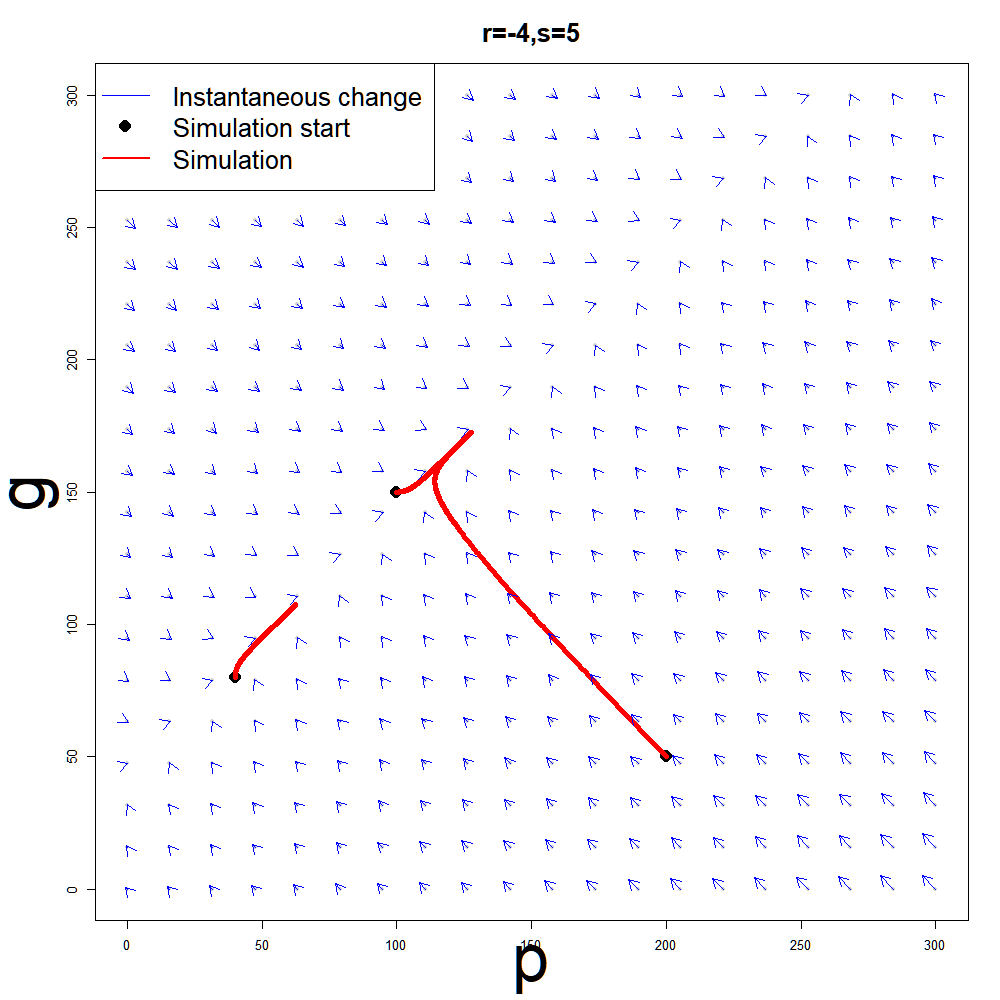
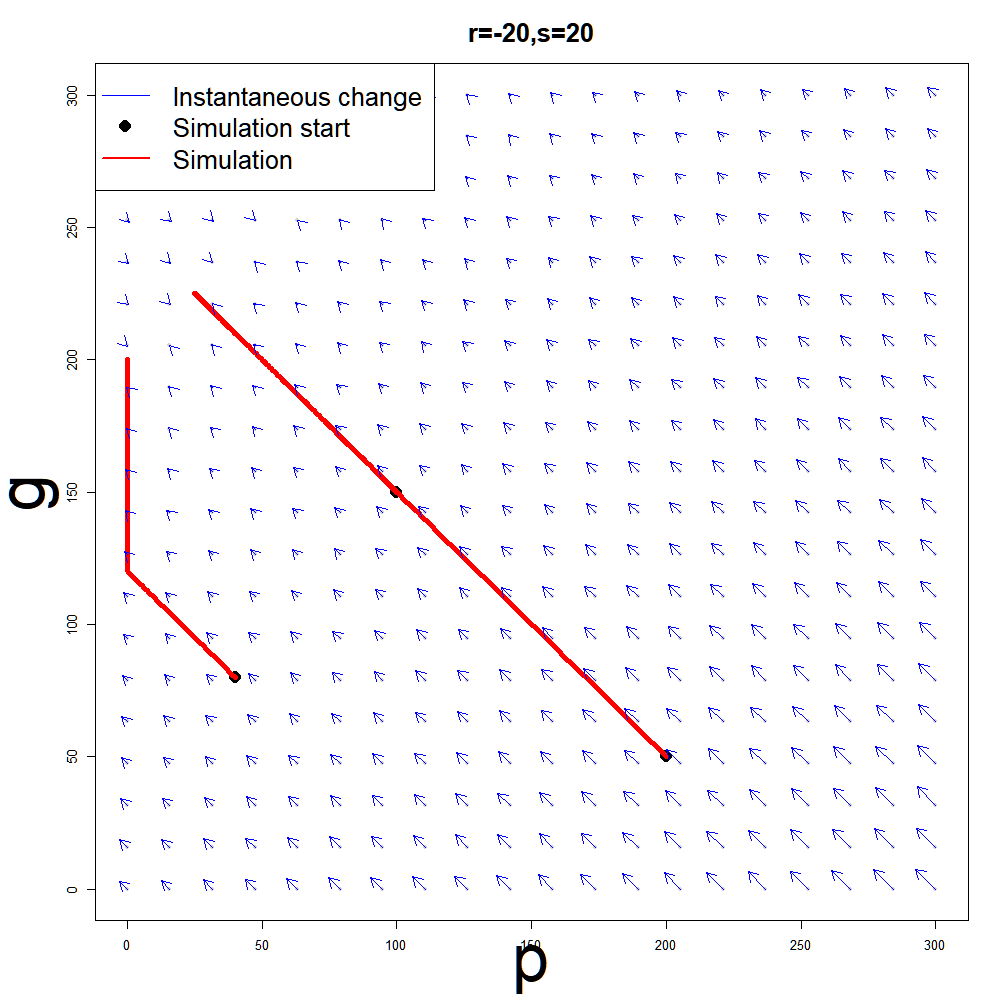
Added vector plots to public sentiment

diff --git a/3MB3 Pres.tex b/3MB3 Pres.tex
@@ -201,57 +201,53 @@
 
 \end{frame}
 
-\begin{frame}{Long Term Behavior (Public Sentiment)}
-    \begin{columns}
-        \column{0.5\textwidth}
-        \begin{center}
-        \textbf{$bd>ac$}
-        \end{center}
-        \column{0.5\textwidth}
-        \begin{center}
-         \textbf{$bd<ac$}
-        \end{center}
-    \end{columns}
-    \begin{columns}
-        \column{0.5\textwidth}
-        \includegraphics[width=1\textwidth]{S1_bd_gt_ac.png}
-        \column{0.5\textwidth}
-        \includegraphics[width=1\textwidth]{S2_bd_lt_ac.png}
-    \end{columns}
+% \begin{frame}{Long Term Behavior (Public Sentiment)}
+% \vspace={1.0cm}
+%     \begin{columns}
+%         \column{0.5\textwidth}
+%         \begin{center}
+%         \textbf{$bd>ac$ or $bd=ac, r<0, s<0$}
+%         \end{center}
+%         \column{0.5\textwidth}
+%         \begin{center}
+%          \textbf{$bd<ac$ or $bd=ac,r \geq,s>0$}
+%         \end{center}
+%     \end{columns}
+%     \begin{columns}
+%         \column{0.5\textwidth}
+%         \includegraphics[width=1\textwidth]{S1_bd_gt_ac.png}
+%         \column{0.5\textwidth}
+%         \includegraphics[width=1\textwidth]{S2_bd_lt_ac.png}
+%     \end{columns}
     
-\vspace{0.3cm}
+% \vspace{0.3cm}
 
-    \begin{columns}
-    \column{0.5\textwidth}
-        \centering
-        Complete mutual disarmament \\
-        %\((p^\infty,g^\infty)=(0,0)\)
-    \column{0.5\textwidth}
-        \centering
-        Perpetual arms race \\
-        %\((p^\infty,g^\infty)=(\infty,\infty)\)
-    \end{columns}
-\end{frame}
+%     \begin{columns}
+%     \column{0.5\textwidth}
+%         \centering
+%         Complete mutual disarmament \\
+%         %\((p^\infty,g^\infty)=(0,0)\)
+%     \column{0.5\textwidth}
+%         \centering
+%         Perpetual arms race \\
+%         %\((p^\infty,g^\infty)=(\infty,\infty)\)
+%     \end{columns}
+% \end{frame}
 
 \begin{frame}{Long Term Behavior (Public Sentiment)}
 
 \vspace{0.1cm}
 
     \begin{columns}
-        \column{0.33\textwidth}
+        \column{0.5\textwidth}
         \centering
-        \textbf{\small $bd=ac, r=0, s=0$}\\
-        \includegraphics[width=0.75\textwidth]{S7_bd_eq_ac.png}\\
-        \tiny Trajectories never reach equilibrium
-        \column{0.33\textwidth}
-        \centering
-        \textbf{\small $bd=ac, r<0, s<0$}\\
-        \includegraphics[width=0.75\textwidth]{S5_bd_eq_ac.png}\\
+        \textbf{\small $bd>ac$ or $bd=ac, r<0, s<0$}\\
+        \includegraphics[width=0.5\textwidth]{S1_bd_gt_ac.png}\\
         \tiny Complete mutual disarmament
-        \column{0.33\textwidth}
+        \column{0.5\textwidth}
         \centering
-        \textbf{\small $bd=ac, r>0, s>0$}\\
-        \includegraphics[width=0.75\textwidth]{S6_bd_eq_ac.png}\\
+        \textbf{\small $bd<ac$ or $bd=ac,r \geq,s>0$}\\
+        \includegraphics[width=0.5\textwidth]{S2_bd_lt_ac.png}\\
         \tiny Perpetual arms race
     \end{columns}
 
@@ -262,12 +258,12 @@
         \centering
         \textbf{\small $bd=ac, r<0, s>0$}\\
         \includegraphics[width=0.5\textwidth]{S4_bd_eq_ac.png}\\
-        \tiny One grows, one shrinks
+        \tiny One nation grows, other nation shrinks
         \column{0.5\textwidth}
         \centering
-        \textbf{\small $bd=ac, r=0, s>0$}\\
-        \includegraphics[width=0.5\textwidth]{S3_bd_eq_ac.png}\\
-        \tiny Both diverge
+        \textbf{\small $bd=ac, r=0, s=0$}\\
+        \includegraphics[width=0.5\textwidth]{S7_bd_eq_ac.png}\\
+        \tiny Nations never reach equilbrium
     \end{columns}
 
 \end{frame}
@@ -357,27 +353,27 @@
 
 \end{frame}
 
-\begin{frame}{Long Term Behavior (Mutual Logistic Fear)}
+% \begin{frame}{Long Term Behavior (Mutual Logistic Fear)}
 
-\begin{columns}[T]
-    \column{0.33\textwidth}
-    \centering
-    \textbf{$bd > ac$}\\
-    \includegraphics[width=\linewidth]{S1_only_origin.png}\\
-    \small Complete mutual disarmament
+% \begin{columns}[T]
+%     \column{0.33\textwidth}
+%     \centering
+%     \textbf{$bd > ac$}\\
+%     \includegraphics[width=\linewidth]{S1_only_origin.png}\\
+%     \small Complete mutual disarmament
 
-    \column{0.33\textwidth}
-    \centering
-    \textbf{$bd < ac$}\\
-    \includegraphics[width=\linewidth]{S2_one_equil.png}\\
-    \small Stabilized spending
+%     \column{0.33\textwidth}
+%     \centering
+%     \textbf{$bd < ac$}\\
+%     \includegraphics[width=\linewidth]{S2_one_equil.png}\\
+%     \small Stabilized spending
 
-    \column{0.33\textwidth}
-    \centering
-    \textbf{$r,s=1$}\\
-    \includegraphics[width=\linewidth]{S3_grievance_unique.png}\\
-    \small Unique equilibrium based on trust/hostility
-\end{columns}
+%     \column{0.33\textwidth}
+%     \centering
+%     \textbf{$r,s=1$}\\
+%     \includegraphics[width=\linewidth]{S3_grievance_unique.png}\\
+%     \small Unique equilibrium based on trust/hostility
+% \end{columns}
 
 \vspace{0.4cm}
 
